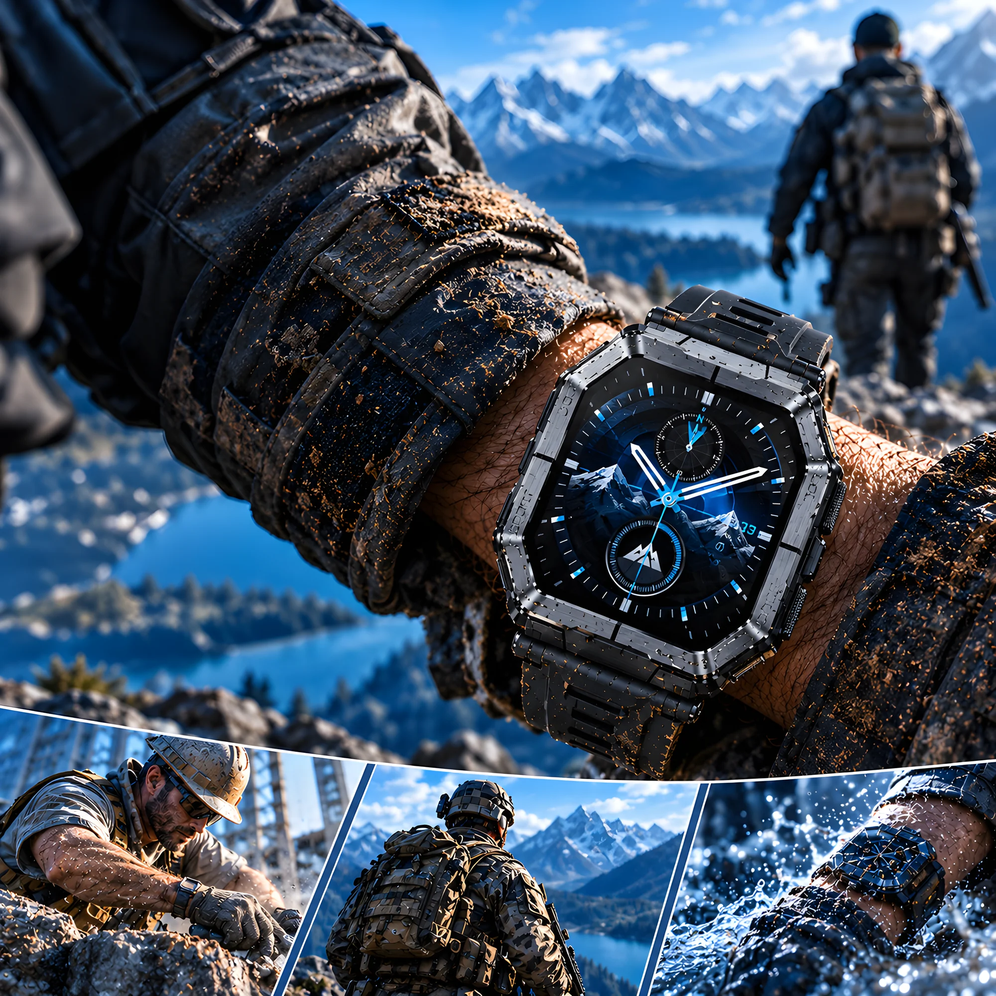
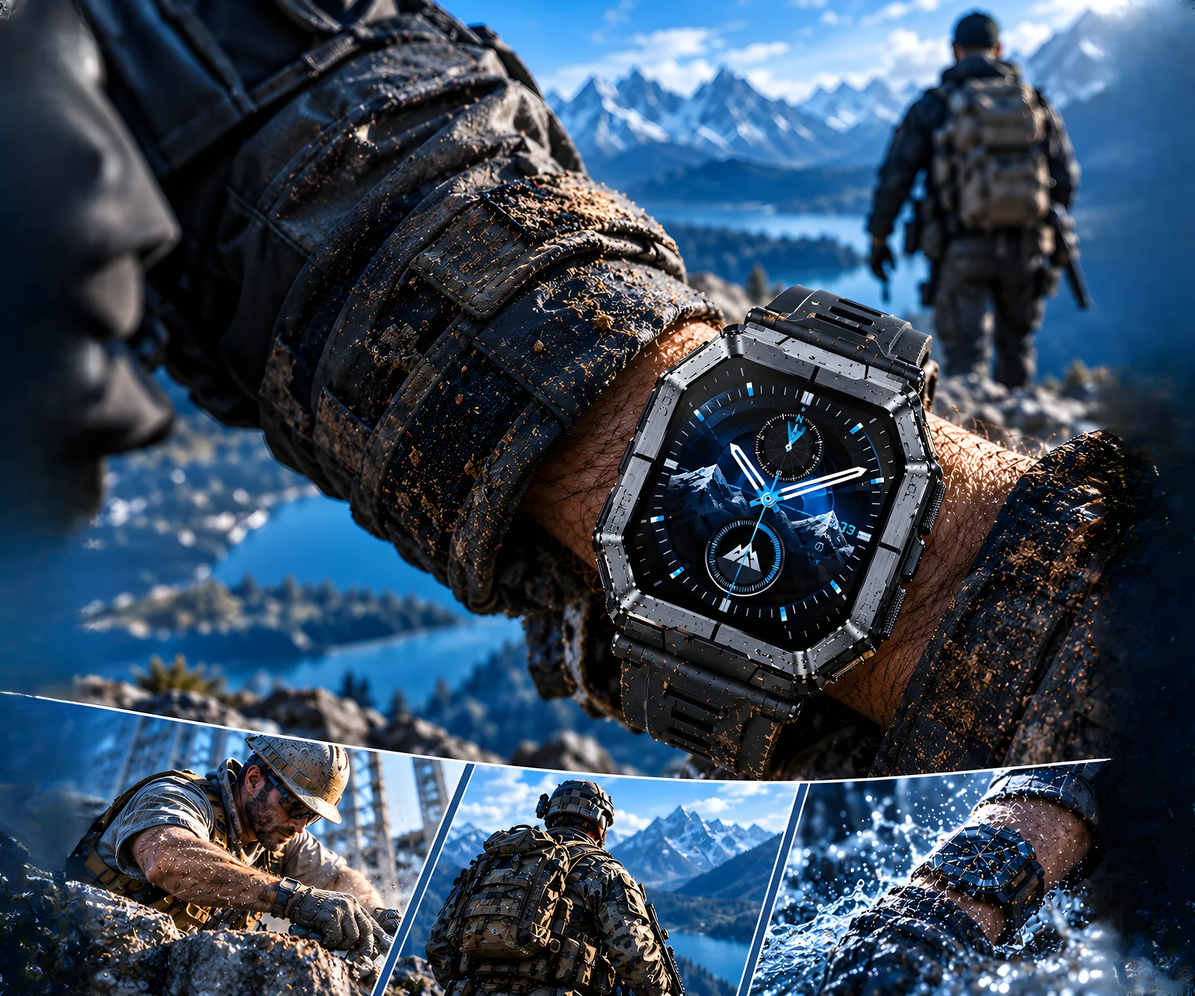
Slider photos widened at the sides instead of a blurred fill
Each lifestyle photo was extended 200px left and right (LaMa outpaint,
upscaled to match), keeping the original square untouched. Desktop's
square box shows exactly the original; phones fill the card edge to
edge with no blur.

Claude-Session: https://claude.ai/code/session_0131Ey9WtYzRJWk6AUwA1R6u

diff --git a/app/globals.css b/app/globals.css
@@ -2086,17 +2086,10 @@ button.thumb:focus-visible {
   transition: opacity 0.9s ease, transform 1.2s cubic-bezier(0.22, 0.61, 0.36, 1);
 }
 
-.story-pic-fill {
-  display: none;
-}
-
-.story-pic-main {
-  position: absolute;
-  inset: 0;
-}
-
+/* The photos are 6:5 with extended sides; cover shows the whole original
+   square on desktop and a little of the extra sides on phones. */
 .story-pic img {
-  object-fit: contain;
+  object-fit: cover;
   transition: transform 5s cubic-bezier(0.22, 0.61, 0.36, 1);
 }
 
@@ -2267,32 +2260,15 @@ button.thumb:focus-visible {
   /* Whole square photo, sized from the screen height so the buttons, the
      photo and every line of text fit on one phone screen together. */
   .story-pic {
-    --pic: max(240px, min(100vw - 2rem - 2px, 100svh - 352px));
+    /* The photos are a little wider than square (their sides were
+       extended), so the box can be wider than tall without cutting
+       anything from the original square. Never wider than 6:5. */
+    --pic: max((100vw - 2rem - 2px) / 1.2, min(100vw - 2rem - 2px, 100svh - 352px));
     width: 100%;
     height: var(--pic);
     padding-bottom: 0;
     margin: 0;
     border-radius: 0;
-  }
-  .story-pic-fill {
-    display: block;
-  }
-  .story-pic img.story-pic-fill {
-    object-fit: cover;
-    filter: blur(12px) brightness(0.8) saturate(1.1);
-    transform: scale(1.3);
-    animation: none !important;
-    transition: none;
-  }
-  /* The sharp photo is a whole square in the middle; its sides melt into
-     the blurred copy instead of ending on a hard line. */
-  .story-pic-main {
-    left: 50%;
-    right: auto;
-    width: var(--pic);
-    transform: translateX(-50%);
-    -webkit-mask-image: linear-gradient(to right, transparent, #000 9%, #000 91%, transparent);
-    mask-image: linear-gradient(to right, transparent, #000 9%, #000 91%, transparent);
   }
   /* A soft fade from the photo into the words below */
   .story-pic::after {

diff --git a/components/Stories.tsx b/components/Stories.tsx
@@ -170,26 +170,13 @@ export default function Stories({ product }: { product: Product }) {
             className={`story story-${s.accent ?? "blue"}${i === active ? " on" : ""}`}
           >
             <div className="story-pic">
-              {/* Phones only: a blurred copy of the same photo fills the card's
-                  sides, so the whole photo shows with no dark strips. */}
               <Image
-                className="story-pic-fill"
                 src={s.image}
-                alt=""
-                aria-hidden="true"
+                alt={s.alt}
                 fill
-                quality={40}
-                sizes="64px"
+                quality={75}
+                sizes="(max-width: 860px) 100vw, 1240px"
               />
-              <span className="story-pic-main">
-                <Image
-                  src={s.image}
-                  alt={s.alt}
-                  fill
-                  quality={75}
-                  sizes="(max-width: 860px) 100vw, 1240px"
-                />
-              </span>
             </div>
             {/* Keyed on `shown`: the words are already there at load, and they
                 play in again the first time the slider comes into view. */}
